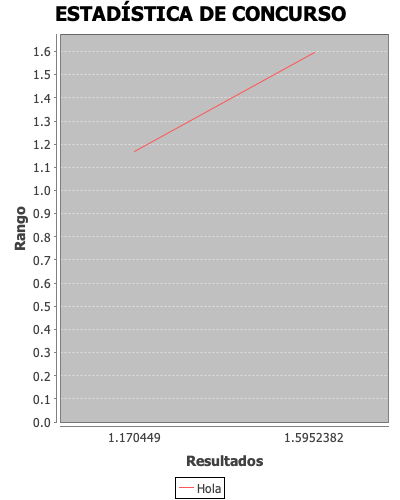
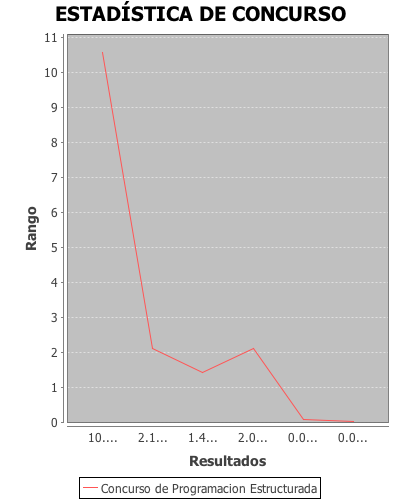
Se hicieron cambios en cuanto a la impresión de la gráfica

diff --git a/CYSCDP_RANKINGS/src/swing/Graficas.java b/CYSCDP_RANKINGS/src/swing/Graficas.java
@@ -148,7 +148,7 @@ public class Graficas extends javax.swing.JInternalFrame {
         jPanel2Layout.setHorizontalGroup(
             jPanel2Layout.createParallelGroup(javax.swing.GroupLayout.Alignment.LEADING)
             .addGroup(javax.swing.GroupLayout.Alignment.TRAILING, jPanel2Layout.createSequentialGroup()
-                .addContainerGap(177, Short.MAX_VALUE)
+                .addContainerGap(219, Short.MAX_VALUE)
                 .addComponent(jLabel2)
                 .addGap(79, 79, 79)
                 .addComponent(jLabel5)
@@ -304,8 +304,11 @@ public class Graficas extends javax.swing.JInternalFrame {
                                 .addComponent(jSeparator2, javax.swing.GroupLayout.PREFERRED_SIZE, 563, javax.swing.GroupLayout.PREFERRED_SIZE)
                                 .addGap(27, 27, 27)
                                 .addComponent(LBL_Mensajero, javax.swing.GroupLayout.PREFERRED_SIZE, 32, javax.swing.GroupLayout.PREFERRED_SIZE))
-                            .addGroup(jPanel1Layout.createParallelGroup(javax.swing.GroupLayout.Alignment.TRAILING)
-                                .addComponent(jPanel3, javax.swing.GroupLayout.Alignment.LEADING, javax.swing.GroupLayout.PREFERRED_SIZE, javax.swing.GroupLayout.DEFAULT_SIZE, javax.swing.GroupLayout.PREFERRED_SIZE)
+                            .addGroup(jPanel1Layout.createParallelGroup(javax.swing.GroupLayout.Alignment.TRAILING, false)
+                                .addGroup(javax.swing.GroupLayout.Alignment.LEADING, jPanel1Layout.createSequentialGroup()
+                                    .addComponent(jPanel3, javax.swing.GroupLayout.PREFERRED_SIZE, javax.swing.GroupLayout.DEFAULT_SIZE, javax.swing.GroupLayout.PREFERRED_SIZE)
+                                    .addPreferredGap(javax.swing.LayoutStyle.ComponentPlacement.RELATED)
+                                    .addComponent(jLabel4, javax.swing.GroupLayout.DEFAULT_SIZE, javax.swing.GroupLayout.DEFAULT_SIZE, Short.MAX_VALUE))
                                 .addGroup(javax.swing.GroupLayout.Alignment.LEADING, jPanel1Layout.createSequentialGroup()
                                     .addGap(20, 20, 20)
                                     .addGroup(jPanel1Layout.createParallelGroup(javax.swing.GroupLayout.Alignment.LEADING, false)
@@ -323,12 +326,7 @@ public class Graficas extends javax.swing.JInternalFrame {
                     .addGroup(jPanel1Layout.createSequentialGroup()
                         .addGap(195, 195, 195)
                         .addComponent(jLabel1)))
-                .addContainerGap(javax.swing.GroupLayout.DEFAULT_SIZE, Short.MAX_VALUE))
-            .addGroup(jPanel1Layout.createParallelGroup(javax.swing.GroupLayout.Alignment.LEADING)
-                .addGroup(jPanel1Layout.createSequentialGroup()
-                    .addGap(296, 296, 296)
-                    .addComponent(jLabel4, javax.swing.GroupLayout.PREFERRED_SIZE, 292, javax.swing.GroupLayout.PREFERRED_SIZE)
-                    .addContainerGap(62, Short.MAX_VALUE)))
+                .addContainerGap(64, Short.MAX_VALUE))
         );
         jPanel1Layout.setVerticalGroup(
             jPanel1Layout.createParallelGroup(javax.swing.GroupLayout.Alignment.LEADING)
@@ -346,18 +344,17 @@ public class Graficas extends javax.swing.JInternalFrame {
                         .addComponent(jButton4)
                         .addComponent(CBConcurso, javax.swing.GroupLayout.PREFERRED_SIZE, javax.swing.GroupLayout.DEFAULT_SIZE, javax.swing.GroupLayout.PREFERRED_SIZE)))
                 .addPreferredGap(javax.swing.LayoutStyle.ComponentPlacement.RELATED)
-                .addGroup(jPanel1Layout.createParallelGroup(javax.swing.GroupLayout.Alignment.LEADING)
-                    .addComponent(LBL_Mensajero, javax.swing.GroupLayout.PREFERRED_SIZE, 21, javax.swing.GroupLayout.PREFERRED_SIZE)
+                .addGroup(jPanel1Layout.createParallelGroup(javax.swing.GroupLayout.Alignment.LEADING, false)
+                    .addGroup(jPanel1Layout.createSequentialGroup()
+                        .addComponent(LBL_Mensajero, javax.swing.GroupLayout.PREFERRED_SIZE, 21, javax.swing.GroupLayout.PREFERRED_SIZE)
+                        .addPreferredGap(javax.swing.LayoutStyle.ComponentPlacement.RELATED, javax.swing.GroupLayout.DEFAULT_SIZE, Short.MAX_VALUE)
+                        .addComponent(jLabel4, javax.swing.GroupLayout.PREFERRED_SIZE, 337, javax.swing.GroupLayout.PREFERRED_SIZE)
+                        .addGap(17, 17, 17))
                     .addGroup(jPanel1Layout.createSequentialGroup()
                         .addComponent(jSeparator2, javax.swing.GroupLayout.PREFERRED_SIZE, javax.swing.GroupLayout.DEFAULT_SIZE, javax.swing.GroupLayout.PREFERRED_SIZE)
                         .addGap(4, 4, 4)
                         .addComponent(jPanel3, javax.swing.GroupLayout.PREFERRED_SIZE, javax.swing.GroupLayout.DEFAULT_SIZE, javax.swing.GroupLayout.PREFERRED_SIZE)))
                 .addContainerGap(81, Short.MAX_VALUE))
-            .addGroup(jPanel1Layout.createParallelGroup(javax.swing.GroupLayout.Alignment.LEADING)
-                .addGroup(jPanel1Layout.createSequentialGroup()
-                    .addGap(111, 111, 111)
-                    .addComponent(jLabel4, javax.swing.GroupLayout.PREFERRED_SIZE, 313, javax.swing.GroupLayout.PREFERRED_SIZE)
-                    .addContainerGap(137, Short.MAX_VALUE)))
         );
 
         javax.swing.GroupLayout layout = new javax.swing.GroupLayout(getContentPane());
@@ -372,8 +369,7 @@ public class Graficas extends javax.swing.JInternalFrame {
             .addGroup(layout.createSequentialGroup()
                 .addComponent(jPanel2, javax.swing.GroupLayout.PREFERRED_SIZE, javax.swing.GroupLayout.DEFAULT_SIZE, javax.swing.GroupLayout.PREFERRED_SIZE)
                 .addPreferredGap(javax.swing.LayoutStyle.ComponentPlacement.RELATED)
-                .addComponent(jPanel1, javax.swing.GroupLayout.PREFERRED_SIZE, javax.swing.GroupLayout.DEFAULT_SIZE, javax.swing.GroupLayout.PREFERRED_SIZE)
-                .addContainerGap(javax.swing.GroupLayout.DEFAULT_SIZE, Short.MAX_VALUE))
+                .addComponent(jPanel1, javax.swing.GroupLayout.PREFERRED_SIZE, javax.swing.GroupLayout.DEFAULT_SIZE, javax.swing.GroupLayout.PREFERRED_SIZE))
         );
 
         pack();
@@ -524,7 +520,7 @@ public class Graficas extends javax.swing.JInternalFrame {
                         for (int j = 0; j < ArrayPuntajesCalculadosNombres.length; j++) {
                             data[j][0] = ArrayPuntajesCalculadosNombres[j][0];
                             data[j][1] = ArrayPuntajesCalculadosNombres[j][1];
-                            dtsc.setValue(Float.parseFloat(data[j][1]), "Hola", String.valueOf(Float.parseFloat(data[j][1])));
+                            dtsc.setValue(Float.parseFloat(data[j][1]), CBConcurso.getSelectedItem().toString(), String.valueOf(Float.parseFloat(data[j][1])));
                         }
 
                         this.Tabla_Nombre_Resultados.setModel(new DefaultTableModel(data, nombreColumnas));
@@ -539,13 +535,20 @@ public class Graficas extends javax.swing.JInternalFrame {
                         } catch (Exception e) {
 
                         }
-                        String urlImagen = "/Users/jorgeantoniogarciagomez/Documents/7MO ISC/DESARROLLO ÁGIL DE SOFTWARE/CYSCDP_1/CYSCDP/CYSCDP_RANKINGS/Gráfico.png";
-                        ImageIcon icon = new ImageIcon(urlImagen);
+                        String urlImagen = "/Users/eduardogarcia/Documents/CYSCDP/CYSCDP_RANKINGS/Gráfico.png";
+                        //Image img = new ImageIcon(urlImagen).getImage();
+                        ImageIcon img = new ImageIcon(urlImagen);
                         //Ajustamos la imagen
+                        /*
                         icon.getImage().getScaledInstance(jLabel4.getWidth(), jLabel4.getHeight(), Image.SCALE_DEFAULT);
 
                         this.jLabel4.setIcon(icon);
+                        this.jLabel4.repaint();
                         this.jLabel4.setText("");
+                        */
+                        Icon icon = new ImageIcon(img.getImage().getScaledInstance(jLabel4.getWidth(), jLabel4.getHeight(), Image.SCALE_DEFAULT));
+                        jLabel4.setIcon(icon);
+                        this.repaint();
                     }
                 }
             } else {
